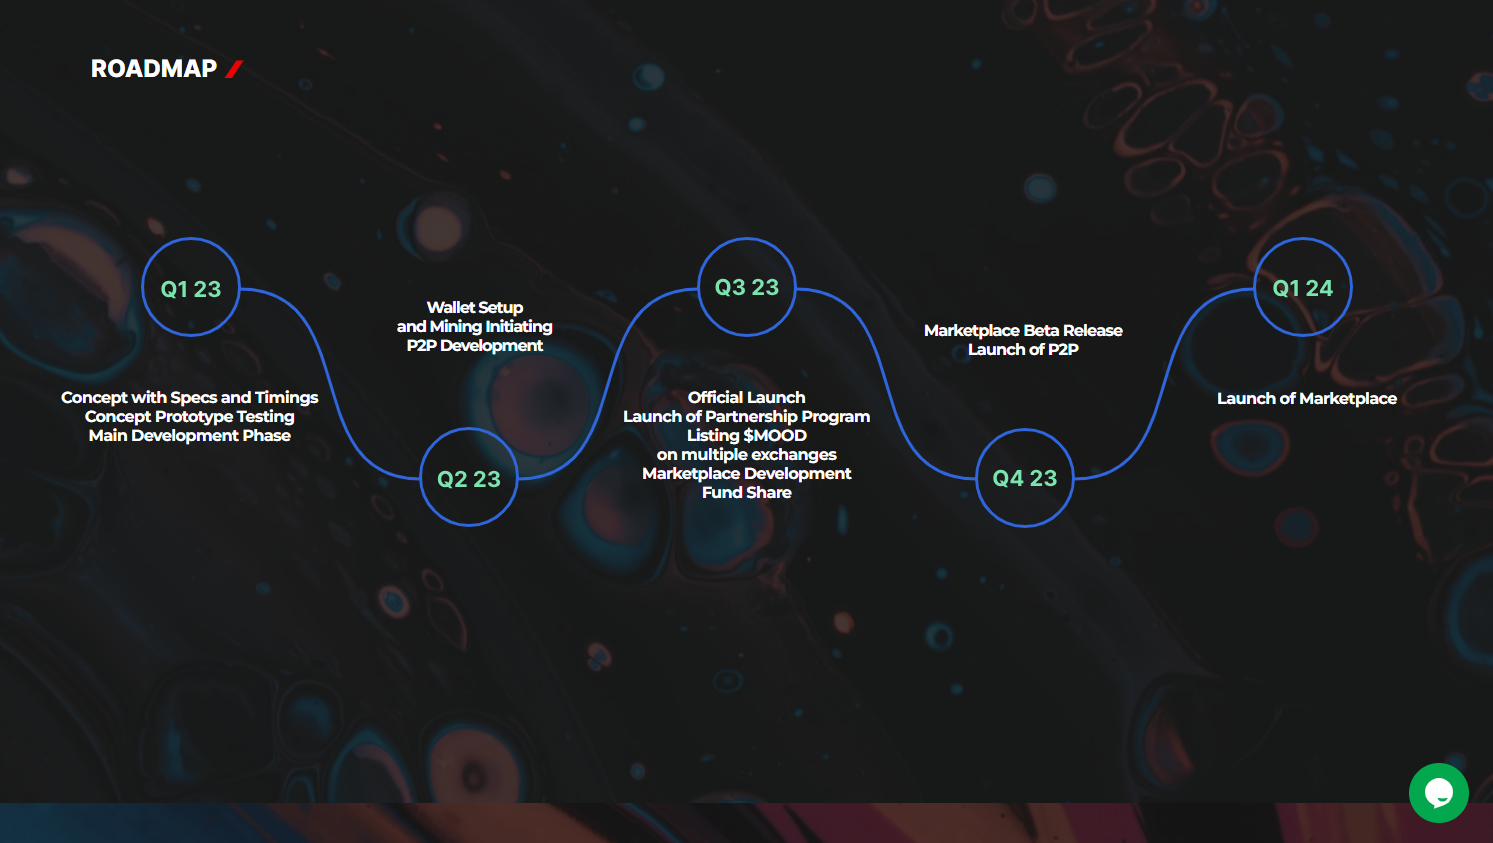
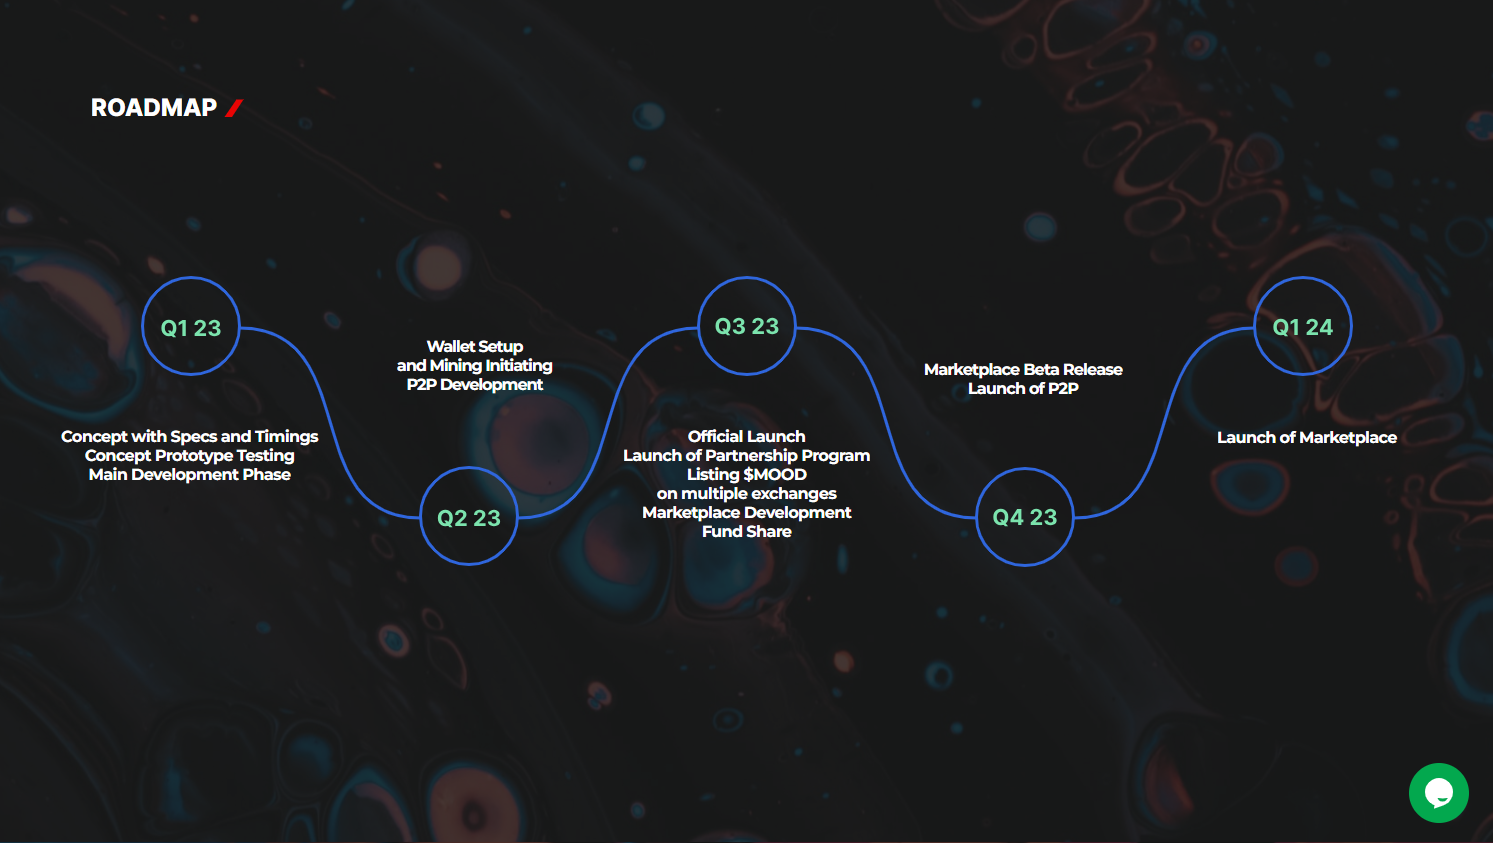
name="tests.mainPageTests.AllPageFirefoxTests" name="tests.mainPageTests.AllPageChromeTests"

diff --git a/src/test/java/tests/mainPageTests/AllPageChromeTests.java b/src/test/java/tests/mainPageTests/AllPageChromeTests.java
@@ -151,7 +151,7 @@ public class AllPageChromeTests extends BaseTest{
         //scroll
         action.moveViewableElementIntoCenter2("//section[@class='roadmap-wrapper']");
         //Time
-        Thread.sleep(3000);
+        Thread.sleep(4000);
         //Run the Pixel perfect test for a selected element
         pixelPerfectAssert.byElement("//section[@class='roadmap-wrapper']",
                 ScShotDir+"Main_page/EnChrome/Screenshots_roadmapSectionMainPage/real_life_screenshot.png",
@@ -170,7 +170,7 @@ public class AllPageChromeTests extends BaseTest{
         //scroll
         action.moveViewableElementIntoCenter2("//section[@class='statistics-wrapper']");
         //Time
-        Thread.sleep(3000);
+        Thread.sleep(4000);
         //Run the Pixel perfect test for a selected element
         pixelPerfectAssert.byElement("//section[@class='statistics-wrapper']",
                 ScShotDir+"Main_page/EnChrome/Screenshots_statisticsSectionMainPage/real_life_screenshot.png",
@@ -189,7 +189,7 @@ public class AllPageChromeTests extends BaseTest{
         //scroll
         action.moveViewableElementIntoCenter2("//section[@class='leaning-wrapper']");
         //Time
-        Thread.sleep(2000);
+        Thread.sleep(3000);
         //Run the Pixel perfect test for a selected element
         pixelPerfectAssert.byElement("//section[@class='leaning-wrapper']",
                 ScShotDir+"Main_page/EnChrome/Screenshots_leaningSectionMainPage/real_life_screenshot.png",
